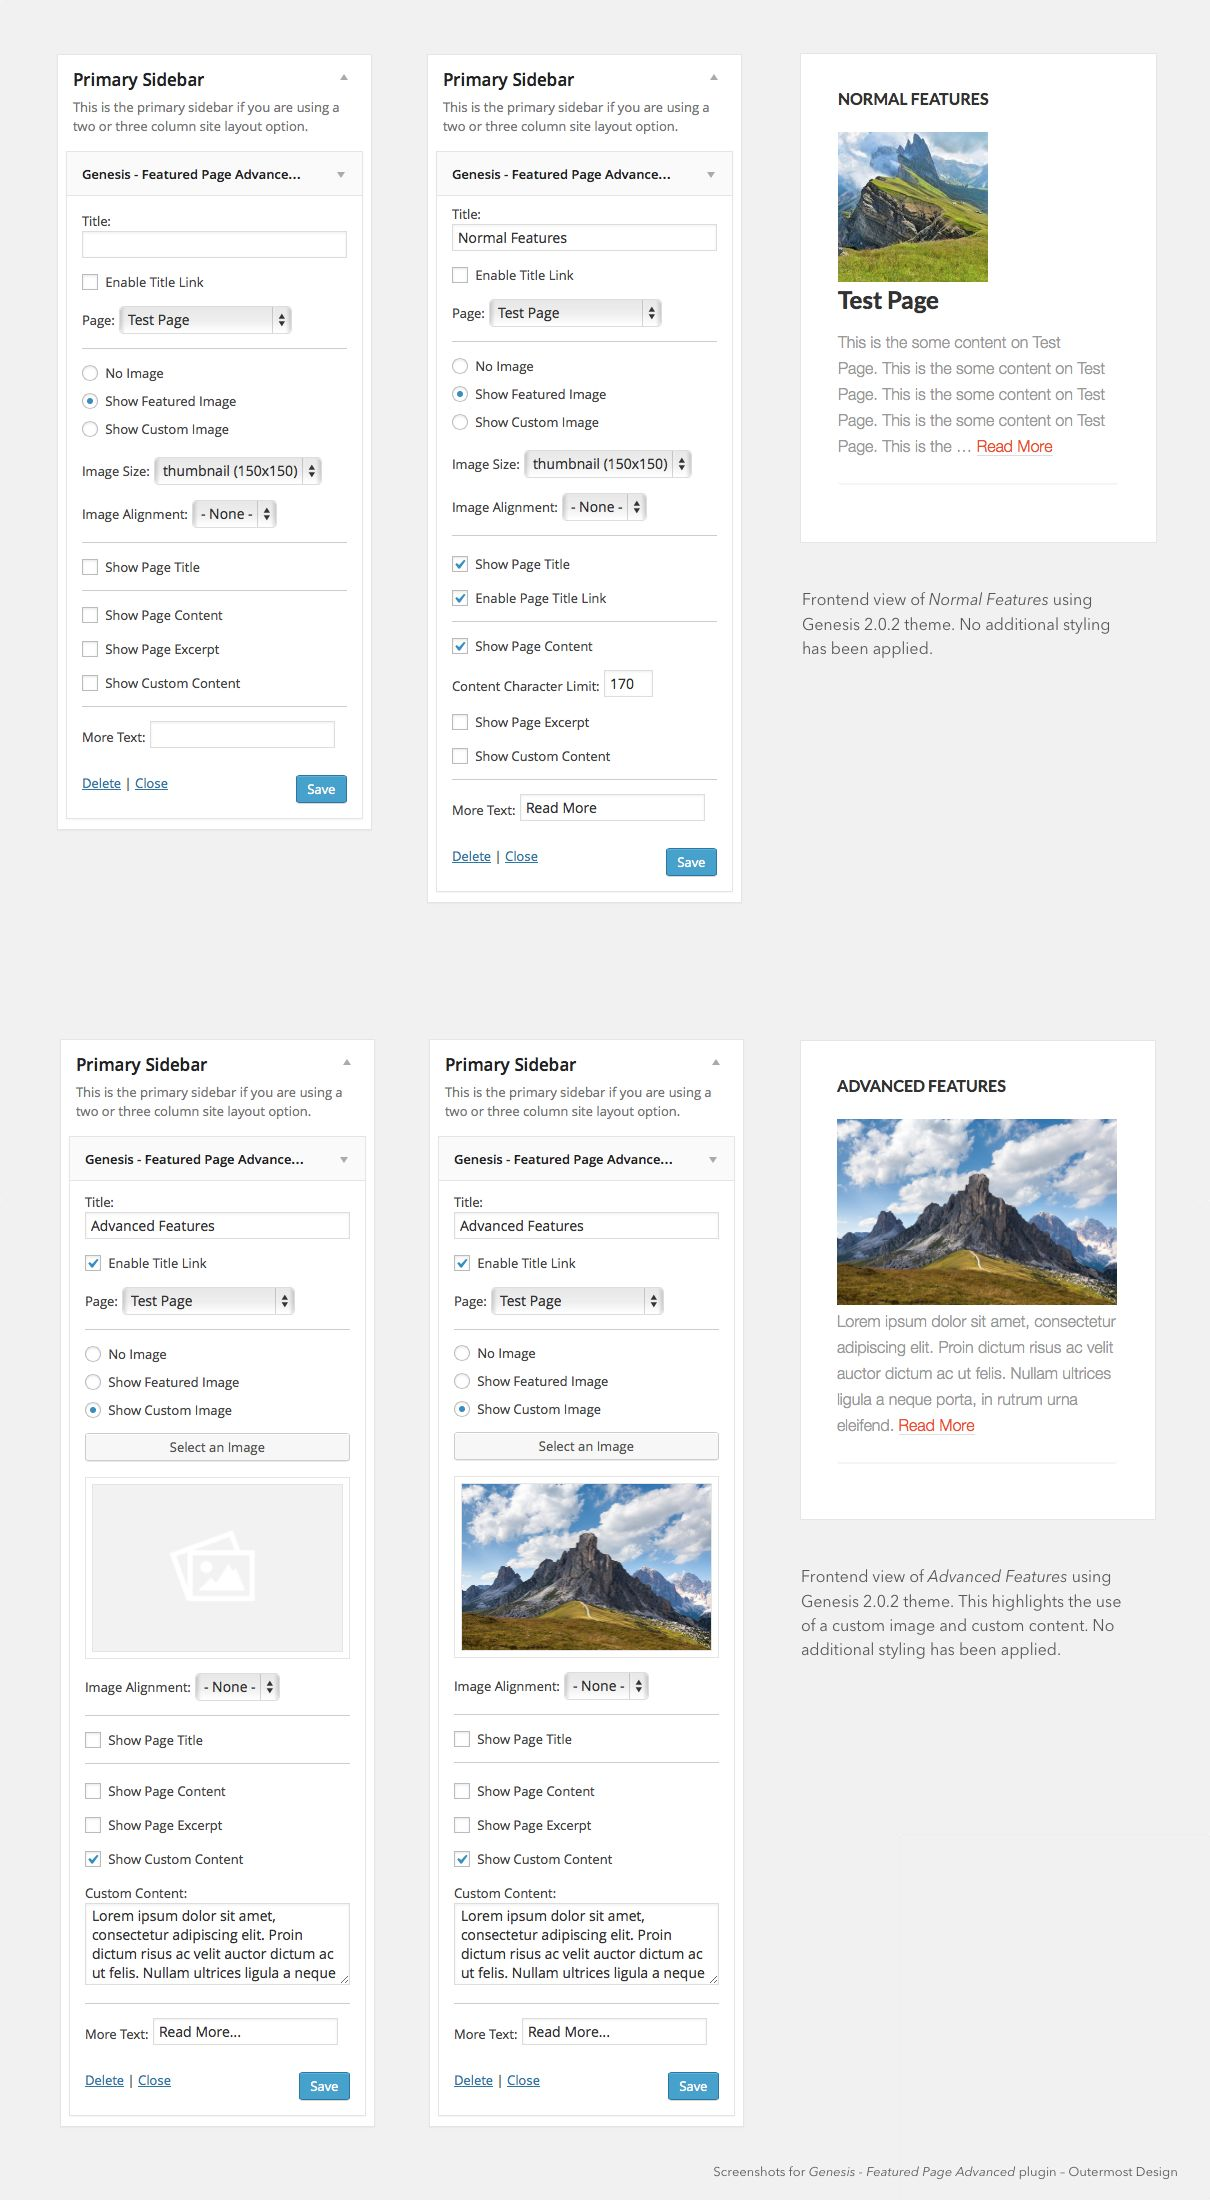
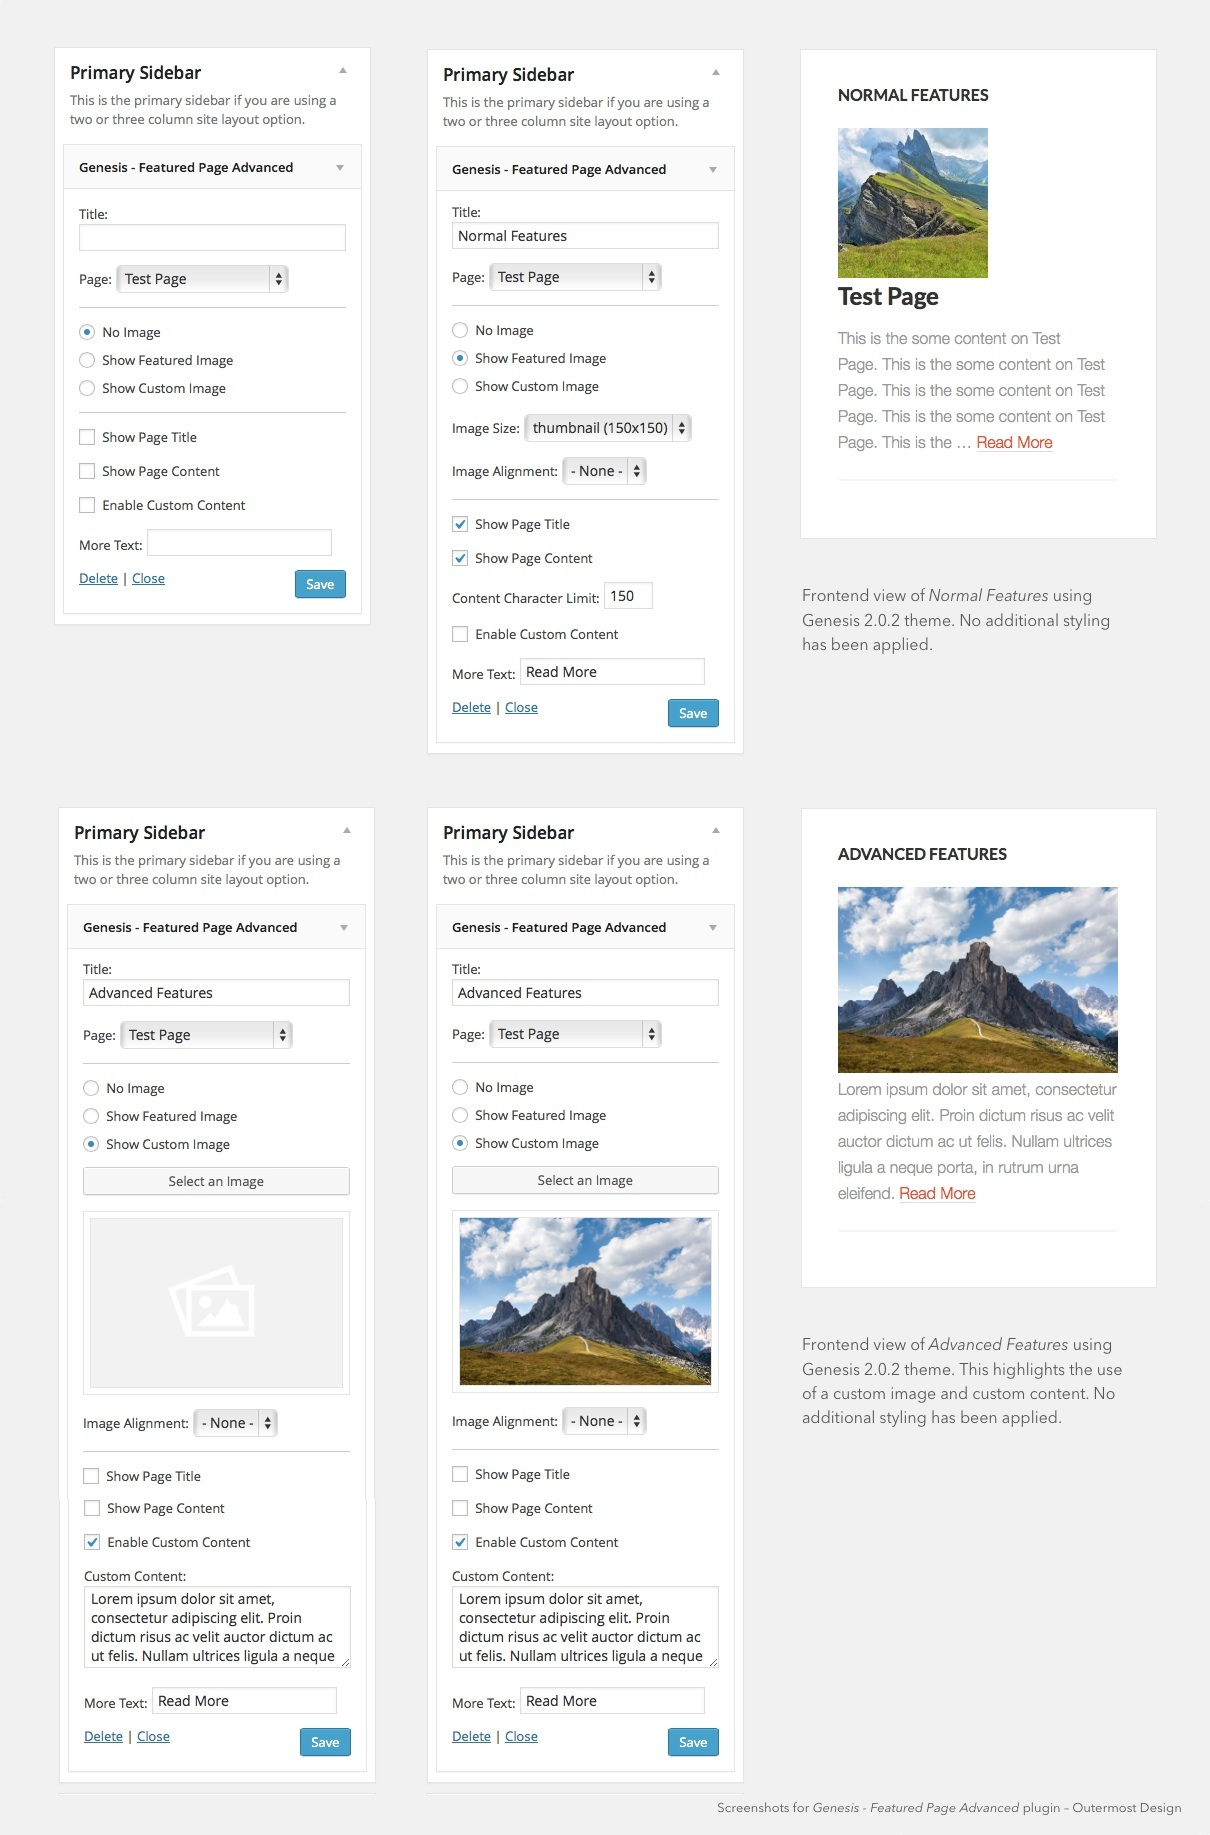
Version 1.3
Added option to remove image link. Changed the deactivation hook.
Cleaned up some code.

diff --git a/inc/fpa-admin-scripts.js b/inc/fpa-admin-scripts.js
@@ -57,14 +57,17 @@ jQuery(document).ready(function($){
   	 		$( '#' + widget_id_prefix + '-toggle_uploader' ).show();
   	 		$( '#' + widget_id_prefix + '-toggle_image_size' ).hide();
   	 		$( '#' + widget_id_prefix + '-toggle_image_alignment' ).show();
+  	 		$( '#' + widget_id_prefix + '-toggle_image_link' ).show();
   	 	} else if ( input_val == 2 ) {
   	 		$( '#' + widget_id_prefix + '-toggle_uploader' ).hide();
   	 		$( '#' + widget_id_prefix + '-toggle_image_size' ).show();
   	 		$( '#' + widget_id_prefix + '-toggle_image_alignment' ).show();
+  	 		$( '#' + widget_id_prefix + '-toggle_image_link' ).show();
   	 	} else if ( input_val == 1 ) {
   	 	  	$( '#' + widget_id_prefix + '-toggle_uploader' ).hide();
   	 	  	$( '#' + widget_id_prefix + '-toggle_image_size' ).hide();
   	 		$( '#' + widget_id_prefix + '-toggle_image_alignment' ).hide();
+  	 		$( '#' + widget_id_prefix + '-toggle_image_link' ).hide();
   	 	}	
   	 	
   	 });
@@ -98,6 +101,5 @@ jQuery(document).ready(function($){
   	 	$( '#' + widget_id_prefix + '-toggle_content_limit' ).toggle( this.checked );
   	 	
   	 });
-  	 
 
 });

diff --git a/inc/fpa-functions.php b/inc/fpa-functions.php
@@ -26,6 +26,7 @@ class Genesis_Featured_Page_Advanced extends WP_Widget {
 			'page_id'         			=> '',
 			'show_image'				=> 1,
 			'image_alignment' 			=> '',
+			'enable_image_link'			=> 0,
 			'custom_image'				=> '',
 			'attachment_id'				=> 0,
 			'image_size'      			=> '',
@@ -100,12 +101,20 @@ class Genesis_Featured_Page_Advanced extends WP_Widget {
 			
 			// Display featured image
 			if ( $instance['show_image'] == 2 && $image ) {
-				printf( '<a href="%s" title="%s" class="%s">%s</a>', get_permalink(), the_title_attribute( 'echo=0' ), esc_attr( $instance['image_alignment'] ), $image );
+				if ( $instance['enable_image_link'] == 1 ) {
+					printf( '<a href="%s" title="%s" class="%s">%s</a>', get_permalink(), the_title_attribute( 'echo=0' ), esc_attr( $instance['image_alignment'] ), $image );
+				} else {
+					echo '<img src="' . $image .'"/>';
+				}
 			}
 			
 			// Display custom image
 			if ( $instance['show_image'] == 3 ) {
-				printf( '<a href="%s" title="%s" class="%s"><img src="%s"/></a>', get_permalink(), the_title_attribute( 'echo=0' ), esc_attr( $instance['image_alignment'] ), $instance['custom_image'] );
+				if ( $instance['enable_image_link'] == 1 ) {
+					printf( '<a href="%s" title="%s" class="%s"><img src="%s"/></a>', get_permalink(), the_title_attribute( 'echo=0' ), esc_attr( $instance['image_alignment'] ), $instance['custom_image'] );
+				} else {
+					echo '<img src="' . $instance['custom_image'] .'"/></a>';
+				}
 			}
 			
 			// Display page title
@@ -296,7 +305,12 @@ class Genesis_Featured_Page_Advanced extends WP_Widget {
 				<option value="alignright" <?php selected( 'alignright', $instance['image_alignment'] ); ?>><?php echo ('Right'); ?></option>
 			</select>
 		</p>
-
+		
+		<p class="<?php if ( $instance['show_image'] == 1 ) echo ('hidden'); ?>" id="<?php echo $this->get_field_id('toggle_image_link'); ?>">
+			<input id="<?php echo $this->get_field_id( 'enable_image_link' ); ?>" type="checkbox" name="<?php echo $this->get_field_name( 'enable_image_link' ); ?>" value="1" <?php checked( 1, $instance['enable_image_link'] ); ?> />
+			<label for="<?php echo $this->get_field_id( 'enable_image_link' ); ?>"><?php echo ('Enable Image Link'); ?></label>
+		</p>
+		
 		<hr class="div" />
 
 		<!--Page Title Block-->
@@ -351,46 +365,47 @@ class Genesis_Featured_Page_Advanced extends WP_Widget {
 }
 
 
+add_action('admin_head', 'fpa_css_head');
 /**
  * Admin header css
  */
 function fpa_css_head(){
 ?>
 	<style>
-	.fpa-show-image label {
-		display: inline-block;
-		margin: .5em 0;
-	}
-	.fpa-image-size {
-		margin: 1em 0 0;
-	}
-	.fpa-image-preview-wrapper {
-		border: 1px solid #e5e5e5;
-		margin: 1em 0;
-		display: block;
-	}
-	.fpa-image-preview-inner {
-		border: 1px solid #e5e5e5;
-		margin: .5em;
-		display: block;	
-	}
-	.fpa-image-preview-inner img {
-		vertical-align: top;
-		width: 100%;
-	}
-	.fpa-uploader-button {
-		margin: .75em 0 .25em !important;
-		width: 100%;
-	}
-	.fpa-read-more {
-		margin-bottom: 2em;
-	}
+		.fpa-show-image label {
+			display: inline-block;
+			margin: .5em 0;
+		}
+		.fpa-image-size {
+			margin: 1em 0 0;
+		}
+		.fpa-image-preview-wrapper {
+			border: 1px solid #e5e5e5;
+			margin: 1em 0;
+			display: block;
+		}
+		.fpa-image-preview-inner {
+			border: 1px solid #e5e5e5;
+			margin: .5em;
+			display: block;	
+		}
+		.fpa-image-preview-inner img {
+			vertical-align: top;
+			width: 100%;
+		}
+		.fpa-uploader-button {
+			margin: .75em 0 .25em !important;
+			width: 100%;
+		}
+		.fpa-read-more {
+			margin-bottom: 2em;
+		}
 	</style>
 <?php
 }
-add_action('admin_head', 'fpa_css_head');
 
 
+add_action( 'admin_enqueue_scripts', 'fpa_admin_scripts_enqueue' );
 /**
  * Admin js enqueue - allows us to show/hide certain fields and upload custom image
  */
@@ -403,5 +418,5 @@ function fpa_admin_scripts_enqueue() {
 	wp_enqueue_script( 'fpa-admin-scripts' );
 
 }
-add_action( 'admin_enqueue_scripts', 'fpa_admin_scripts_enqueue' );
+
 

diff --git a/genesis-featured-page-advanced.php b/genesis-featured-page-advanced.php
@@ -4,7 +4,7 @@
 Plugin Name: Genesis Featured Page Advanced
 Plugin URI: http://www.outermostdesign.com/
 Description: Adds an enhanced version of the Genesis - Featured Page widget. The Genesis Framework 2.0+ is required.
-Version: 1.2.1
+Version: 1.3
 Author: Outermost Design
 Author URI: http://www.outermostdesign.com/
 License: GPLv2
@@ -24,32 +24,31 @@ License: GPLv2
 */
 
 
-register_activation_hook( __FILE__, 'fpa_activation' );
+
+register_activation_hook( __FILE__, 'fpa_activation_check' );
 /**
- * This function runs on plugin activation. It checks to make sure Genesis
- * or a Genesis child theme is active. If not, it deactivates itself.
+ * This function runs on plugin activation. It checks to make sure the required
+ * minimum Genesis version is installed. If not, it deactivates itself.
  *
  * 	Author: Nathan Rice
  *	Author URI: http://www.nathanrice.net/
  */
-function fpa_activation() {
+function fpa_activation_check() {
 
-	if ( ! defined( 'PARENT_THEME_VERSION' ) || ! version_compare( PARENT_THEME_VERSION, '2.0', '>=' ) )
-		fpa_deactivate( '2.0', '3.6' );
+		$latest = '2.0';
 
-}
+		$theme_info = wp_get_theme();
 
-/**
- * Deactivate Genesis Featured Page Advanced widget if the user is not using the Genesis Framework or WP 3.6+
- *
- * Author: Nathan Rice
- * Author URI: http://www.nathanrice.net/
- */
-function fpa_deactivate( $genesis_version = '2.0', $wp_version = '3.6' ) {
-	
-	deactivate_plugins( plugin_basename( __FILE__ ) );
-	wp_die( sprintf( 'Sorry, the minimum requirements for <em>Genesis - Featured Page Advanced</em> are WordPress %s and <a href="%s" target="_blank">Genesis %s</a>. You must upgrade and/or purchase Genesis to use this plugin. Go back to the <a href="javascript:history.back()">Plugins Page.</a>', $wp_version, 'http://www.studiopress.com', $genesis_version) );
-	
+		if ( 'genesis' != basename( TEMPLATEPATH ) ) {
+	        deactivate_plugins( plugin_basename( __FILE__ ) ); // Deactivate plugin
+			wp_die( sprintf( 'Sorry, you can\'t activate <em>Genesis - Featured Page Advanced</em> unless you have installed the <a href="%s" target="_blank">Genesis Framework</a>. Go back to the <a href="javascript:history.back()">Plugins Page</a>.', 'http://www.studiopress.com/themes/genesis' ) );
+		}
+
+		if ( version_compare( $theme_info['Version'], $latest, '<' ) ) {
+			deactivate_plugins( plugin_basename( __FILE__ ) ); // Deactivate plugin
+			wp_die( sprintf( 'Sorry, you cannot activate <em>Genesis - Featured Page Advanced</em> without <a href="%s" target="_blank">Genesis %s</a> or greater. Go back to the <a href="javascript:history.back()">Plugins Page</a>.', 'http://www.studiopress.com/themes/genesis', $latest ) );
+		}
+
 }
 
 
